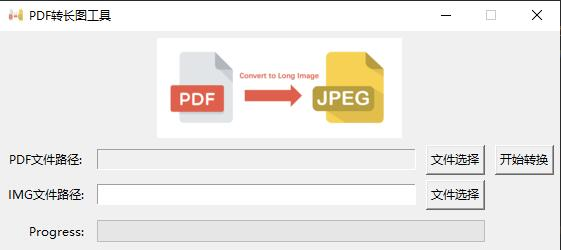
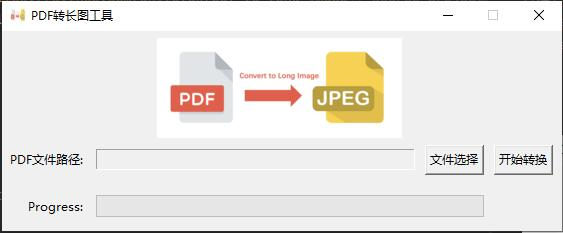
优化界面
1. 采纳同事建议优化操作流程
2. 调整GUI默认屏幕居中呈现

diff --git a/convert.py b/convert.py
@@ -20,24 +20,18 @@ def select_pdf():
 
 
 def save_to():
+    pdf_name = pdfname.get()
+    if not pdf_name:
+        messagebox.showinfo('提示', '请选择PDF文件')
+        return ''
     _imgname = filedialog.asksaveasfilename(filetype=[("IMAGE file", "*.jpg")])
     if _imgname != '':
         if not _imgname.endswith('jpg'):
             _imgname = f"{_imgname}.jpg"
         imgname.set(_imgname)
-
-
-def convert():
-    pdf_name = pdfname.get()
-    img_name = imgname.get()
-    if not pdf_name:
-        messagebox.showinfo('提示', '请选择PDF文件')
-    elif not img_name:
-        messagebox.showinfo('提示', '请选择IMG保存路径')
-    else:
+        img_name = imgname.get()
         xargs = (progressbar, pbar_txt, messagebox)
         Thread(target=convert_pdf_to_long_image, args=(pdf_name, img_name, xargs)).start()
-        # window.update_idletasks()
 
 
 # 生成exe资源文件目录访问路径
@@ -47,6 +41,17 @@ def resource_path(relative_path):
     else:
         base_path = os.path.abspath('.')
     return os.path.join(base_path, relative_path)
+
+
+# 创建屏幕居中的窗体
+def center_window(window, w, h):
+    # 1. 获取屏幕 宽、高
+    ws = window.winfo_screenwidth()
+    hs = window.winfo_screenheight()
+    # 2. 计算 x,y 位置
+    x = (ws / 2) - (w / 2)
+    y = (hs / 3) - (h / 2)
+    window.geometry(f'{w:d}x{h:d}+{int(x)}+{int(y)}')
 
 
 window = tk.Tk()
@@ -68,26 +73,22 @@ tk.Label(window, image=bg_image).grid(row=0, column=0, columnspan=4, rowspan=2,
                                       sticky=tk.W + tk.E + tk.N + tk.S, pady=5)
 
 # 设置窗体大小以及禁用最大化（禁止用户调整窗体大小）
-window.geometry("560x220")
+# window.geometry("560x220")
+center_window(window, 560, 200)
 window.resizable(False, False)
 
 # progress bar
-tk.Label(window, text='Progress:').grid(row=4, column=0, sticky=tk.E, padx=5, pady=5)
+tk.Label(window, text='Progress:').grid(row=4, column=0, sticky=tk.E, padx=5, pady=20)
 progressbar = Progressbar(window, orient=tk.HORIZONTAL, length=100, mode='determinate')
-progressbar.grid(row=4, column=1, columnspan=2, sticky=tk.W + tk.E, padx=5, pady=5)
-tk.Label(window, textvariable=pbar_txt).grid(row=4, column=3, sticky=tk.W, padx=5, pady=5)
+progressbar.grid(row=4, column=1, columnspan=2, sticky=tk.W + tk.E, padx=5, pady=20)
+tk.Label(window, textvariable=pbar_txt).grid(row=4, column=3, sticky=tk.W, padx=5, pady=20)
 
 # pdf文件选择
 tk.Label(window, text='PDF文件路径:').grid(row=2, column=0, padx=5)
 tk.Entry(window, textvariable=pdfname, state=tk.DISABLED, width=45).grid(row=2, column=1, padx=5)
 tk.Button(window, text="文件选择", command=select_pdf).grid(row=2, column=2, padx=5)
 
-# image文件保存路径
-tk.Label(window, text='IMG文件路径:').grid(row=3, column=0, padx=5, pady=5)
-tk.Entry(window, textvariable=imgname, width=45).grid(row=3, column=1, padx=5, pady=5)
-tk.Button(window, text="文件选择", command=save_to).grid(row=3, column=2, padx=5, pady=5)
-
 # 触发转换
-tk.Button(window, text="开始转换", command=convert).grid(row=2, column=3, padx=5)
+tk.Button(window, text="开始转换", command=save_to).grid(row=2, column=3, padx=5)
 
 window.mainloop()
